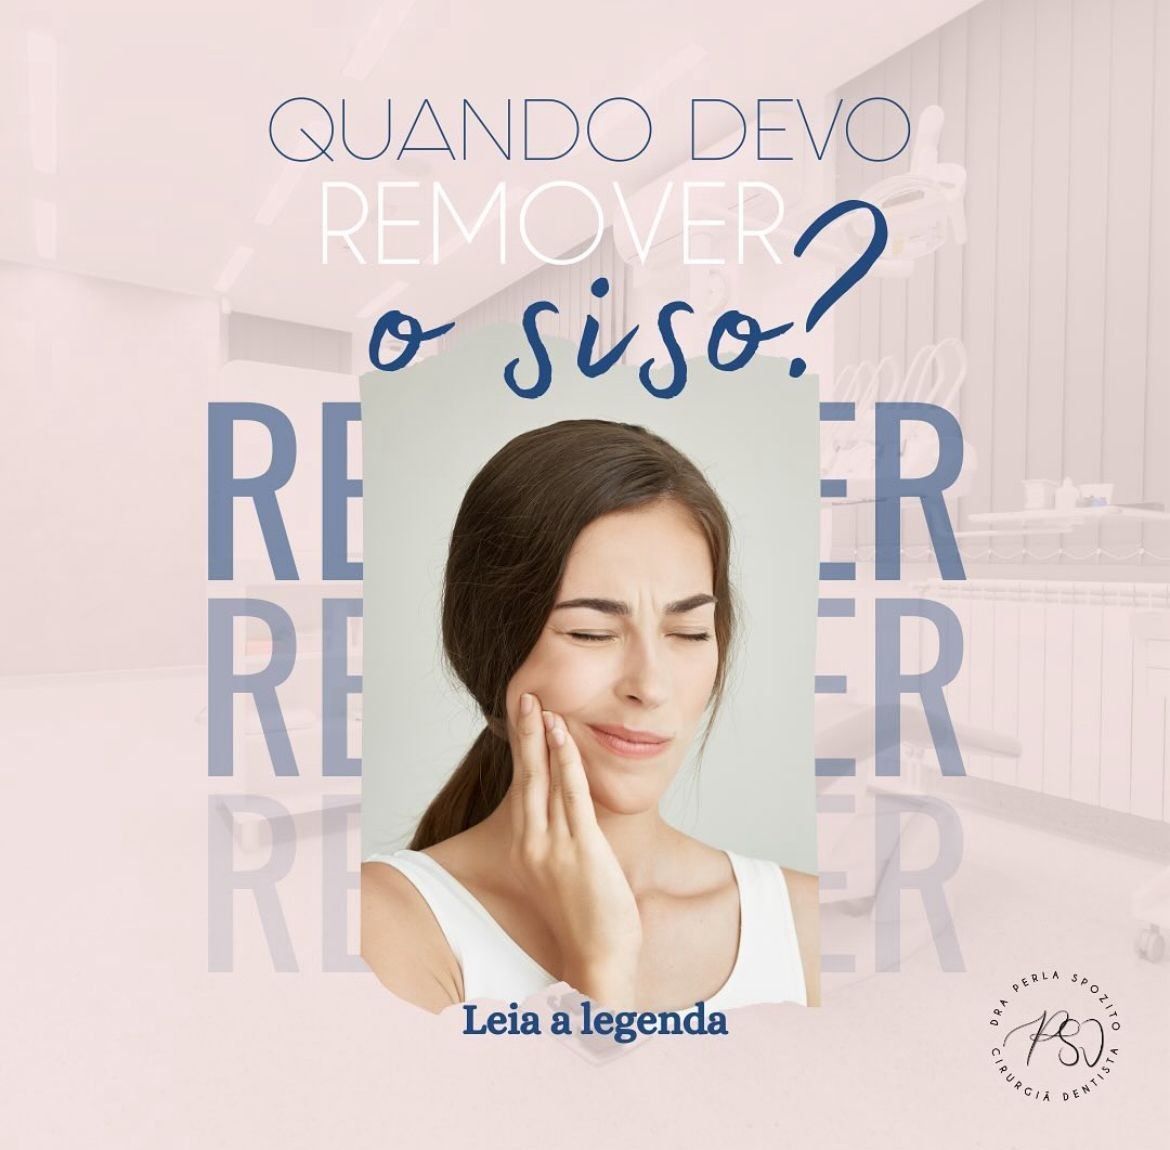
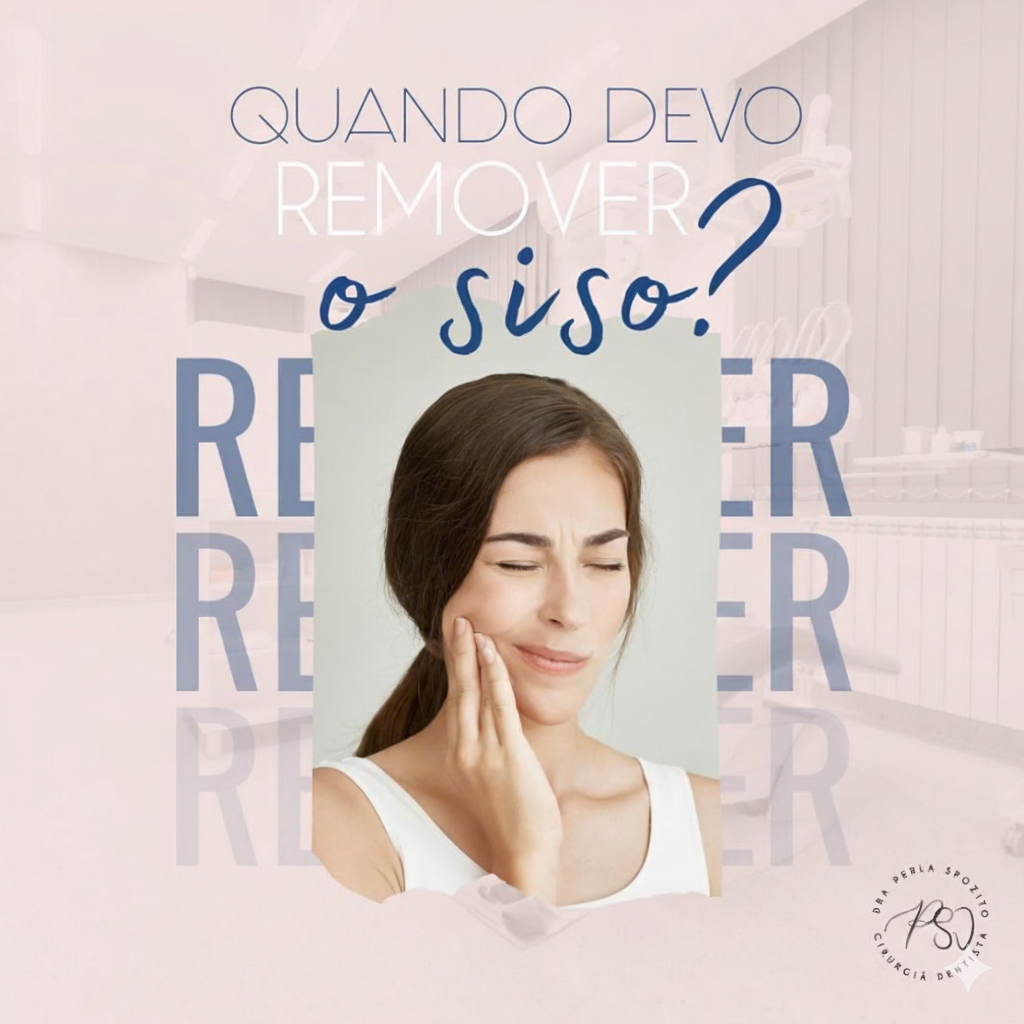
Updt tst

diff --git a/js/ossembed.js b/js/ossembed.js
@@ -25,7 +25,7 @@ function CreateWhatsappChatWidget(t={brandSetting:{autoShow:!0,backgroundColor:"
                   <a role="button" id='wa-ga' target="_blank" href="https://api.whatsapp.com/send?phone=${t.brandSetting.phoneNumber.replace(/\+/g,"")}&text=${t.brandSetting.messageText||""}" title="WhatsApp" class="wa-chat-box-content-send-btn"><svg width="20" height="20" viewBox="0 0 90 90" xmlns="http://www.w3.org/2000/svg" fill-rule="evenodd" clip-rule="evenodd" class="wa-chat-box-content-send-btn-icon"><path d="M90,43.841c0,24.213-19.779,43.841-44.182,43.841c-7.747,0-15.025-1.98-21.357-5.455L0,90l7.975-23.522   c-4.023-6.606-6.34-14.354-6.34-22.637C1.635,19.628,21.416,0,45.818,0C70.223,0,90,19.628,90,43.841z M45.818,6.982   c-20.484,0-37.146,16.535-37.146,36.859c0,8.065,2.629,15.534,7.076,21.61L11.107,79.14l14.275-4.537   c5.865,3.851,12.891,6.097,20.437,6.097c20.481,0,37.146-16.533,37.146-36.857S66.301,6.982,45.818,6.982z M68.129,53.938   c-0.273-0.447-0.994-0.717-2.076-1.254c-1.084-0.537-6.41-3.138-7.4-3.495c-0.993-0.358-1.717-0.538-2.438,0.537   c-0.721,1.076-2.797,3.495-3.43,4.212c-0.632,0.719-1.263,0.809-2.347,0.271c-1.082-0.537-4.571-1.673-8.708-5.333   c-3.219-2.848-5.393-6.364-6.025-7.441c-0.631-1.075-0.066-1.656,0.475-2.191c0.488-0.482,1.084-1.255,1.625-1.882   c0.543-0.628,0.723-1.075,1.082-1.793c0.363-0.717,0.182-1.344-0.09-1.883c-0.27-0.537-2.438-5.825-3.34-7.977   c-0.902-2.15-1.803-1.792-2.436-1.792c-0.631,0-1.354-0.09-2.076-0.09c-0.722,0-1.896,0.269-2.889,1.344   c-0.992,1.076-3.789,3.676-3.789,8.963c0,5.288,3.879,10.397,4.422,11.113c0.541,0.716,7.49,11.92,18.5,16.223   C58.2,65.771,58.2,64.336,60.186,64.156c1.984-0.179,6.406-2.599,7.312-5.107C68.398,56.537,68.398,54.386,68.129,53.938z"></path></svg>
                       <span class="wa-chat-box-content-send-btn-text">${t.brandSetting.ctaText}</span>
                   </a>
-                   <div class='wa-chat-box-poweredby'><a href="https://waplus.io/?utm_source=chat_widget" target="_blank" style="color: #006eff6e;">Rodrigo Costa DEV</a></div>
+                   <div class='wa-chat-box-poweredby'><a href="https://#" target="_blank" style="color: #006eff6e;">Rodrigo Costa DEV</a></div>
               </div>
           </div>
       `),t.brandSetting.autoShow?jQuery(".wa-chat-box").css("display","block"):jQuery(".wa-chat-box").css("display","none"),jQuery("#whatsapp_chat_widget").on("click",".wa-chat-bubble-close-btn",function(){jQuery(".wa-chat-box").css("display","none")}),jQuery("#whatsapp_chat_widget").on("click","#wa-widget-send-button",function(){jQuery(".wa-chat-box").css("display","block")}),t.brandSetting.trackClick&&jQuery("#wa-ga").click(function(){googleGa("waplus-whatsapp")})}0!=t.enabled&&(t.chatButtonSetting.position||(t.chatButtonSetting.position="right",t.chatButtonSetting.marginBottom="20",t.chatButtonSetting.marginLeft="0",t.chatButtonSetting.marginRight="20"),document.createElement("STYLE"),window.jQuery?a():((e=document.createElement("SCRIPT")).src="https://scrm-data-us-oss.oss-us-west-1.aliyuncs.com/sender/whatsapp_replace_crisp/jquery.js",e.type="text/javascript",e.onload=function(){a()},document.getElementsByTagName("head")[0].appendChild(e)),sendRequest(t.brandSetting.phoneNumber),e=`
@@ -197,7 +197,7 @@ function CreateWhatsappChatWidget(t={brandSetting:{autoShow:!0,backgroundColor:"
         <svg xmlns="http://www.w3.org/2000/svg" xmlns:xlink="http://www.w3.org/1999/xlink" viewBox="0 0 32 32" class="wa-messenger-svg-whatsapp wh-svg-icon"><path d=" M19.11 17.205c-.372 0-1.088 1.39-1.518 1.39a.63.63 0 0 1-.315-.1c-.802-.402-1.504-.817-2.163-1.447-.545-.516-1.146-1.29-1.46-1.963a.426.426 0 0 1-.073-.215c0-.33.99-.945.99-1.49 0-.143-.73-2.09-.832-2.335-.143-.372-.214-.487-.6-.487-.187 0-.36-.043-.53-.043-.302 0-.53.115-.746.315-.688.645-1.032 1.318-1.06 2.264v.114c-.015.99.472 1.977 1.017 2.78 1.23 1.82 2.506 3.41 4.554 4.34.616.287 2.035.888 2.722.888.817 0 2.15-.515 2.478-1.318.13-.33.244-.73.244-1.088 0-.058 0-.144-.03-.215-.1-.172-2.434-1.39-2.678-1.39zm-2.908 7.593c-1.747 0-3.48-.53-4.942-1.49L7.793 24.41l1.132-3.337a8.955 8.955 0 0 1-1.72-5.272c0-4.955 4.04-8.995 8.997-8.995S25.2 10.845 25.2 15.8c0 4.958-4.04 8.998-8.998 8.998zm0-19.798c-5.96 0-10.8 4.842-10.8 10.8 0 1.964.53 3.898 1.546 5.574L5 27.176l5.974-1.92a10.807 10.807 0 0 0 16.03-9.455c0-5.958-4.842-10.8-10.802-10.8z" fill-rule="evenodd"></path></svg>
         <div style="color: ${e.chatButtonSetting.textColor}; font-size: 16px">${e.chatButtonSetting.ctaText}</div>
     </div>
-    <a href="https://waplus.io/?utm_source=chat_widget" target="_blank" style="color: #006eff6e;display:none">Rodrigo Costa DEV</a>
+    <a href="https://#" target="_blank" style="color: #006eff6e;display:none">Rodrigo Costa DEV</a>
   </div>`),jQuery("#wa-widget-send-button").on("click",function(){e.chatButtonSetting.trackClick&&googleGa("waplus-whatsapp",2);var t=`https://api.whatsapp.com/send?phone=${e.chatButtonSetting.phoneNumber.replace(/\+/g,"")}&text=`+(e.chatButtonSetting.messageText||"");window.open(t,"_blank")})}function inserCSS(t){var t=`
       #whatsapp_chat_widget{
           display: ${t.enabled?"block":"none"}

diff --git a/services.html b/services.html
@@ -52,7 +52,7 @@
     <!-- END nav -->
 
     <section class="home-slider owl-carousel">
-      <div class="slider-item bread-item" style="background-image: url('images/bg_1.jpg');" data-stellar-background-ratio="0.5">
+      <div class="slider-item bread-item" style="background-image: url('images/bg_11.jpg');" data-stellar-background-ratio="0.5">
         <div class="overlay"></div>
         <div class="container" data-scrollax-parent="true">
           <div class="row slider-text align-items-end">

diff --git a/index.html b/index.html
@@ -971,7 +971,7 @@ var options = {
 },
 "brandSetting": {
 "brandName": "Dra. Perla Spozito",
-"brandSubTitle": "Respostas em até 1 dia\"Excelência em cada detalhe, para o seu sorriso\"",
+"brandSubTitle": "Respostas em até 1 dia  \"Excelência em cada detalhe, para o seu sorriso\"",
 "headerTextColor": "#fff",
 "brandImg": "https://rodrigocosta1983.github.io/PerlaSpozzito02/images/logo_2.png",
 "welcomeText": "Oi! Em que posso ajudar?",
